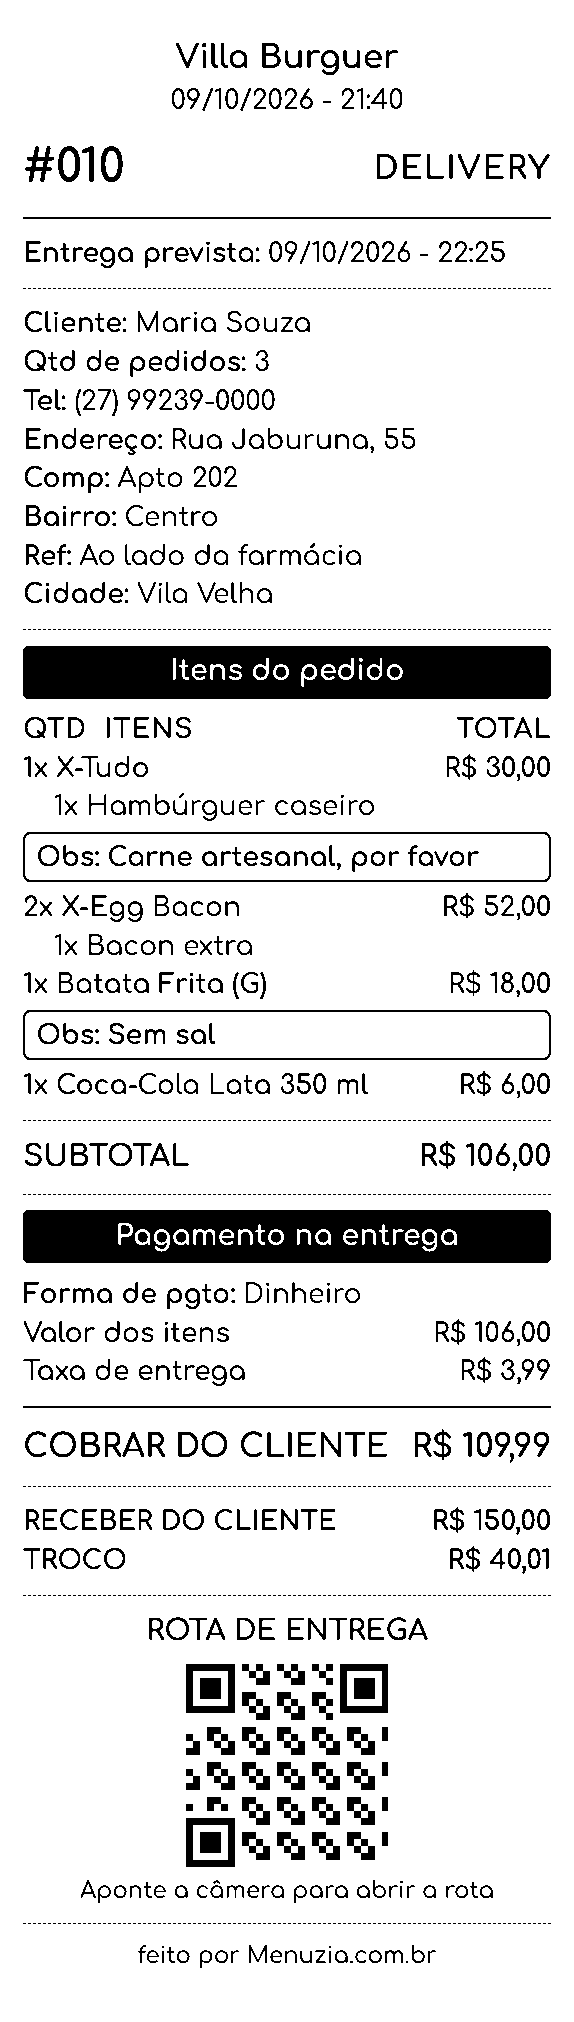
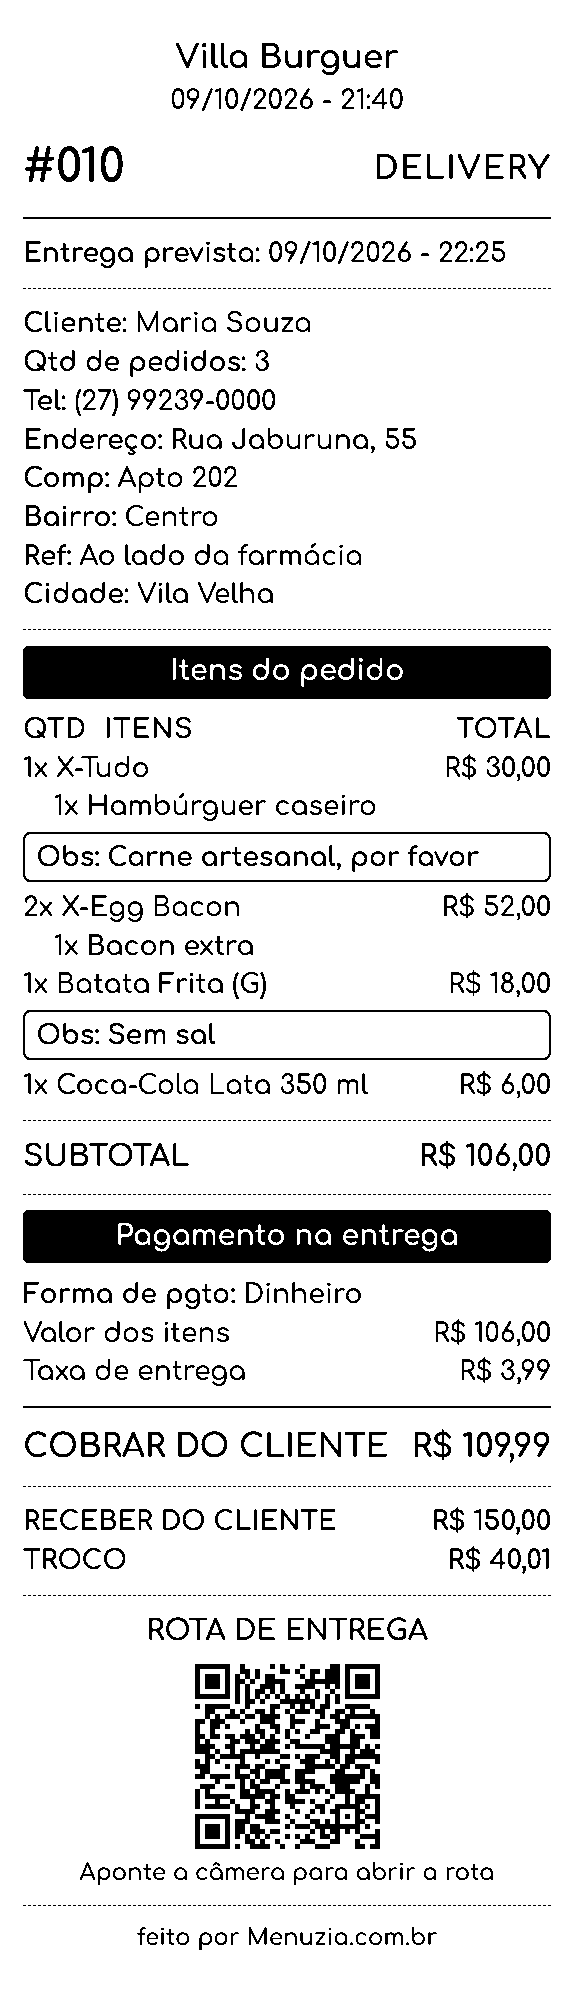
feat(assistente): Alfa 1 1.1.1 — texto mais forte (mín. 600, destaques 700) e amostras com QR reais
- alfa1.js: todo font-weight 500 → 600 (cliente, endereço, complementos, tabela da pré-conta);
  sub-linhas da pré-conta com o mesmo corpo de 14px da comanda.
- Amostras regeradas com QR REAIS (mesmo código do servidor): rota do pedido #277 e Instagram;
  decodificadas por jsQR (5/5).
- Feed da atualização: 1.1.1 (release printer-agent-v1.1.1). A Villa continua fora (trava por IP/computador).
- cozinha-beta: contagem de pedidos por telefone usava /D/ em vez de /\D/.

diff --git a/printer-agent/ferramentas/amostras-alfa1.js b/printer-agent/ferramentas/amostras-alfa1.js
@@ -15,7 +15,14 @@ function qrFalso(n = 29) {
   olho(0, 0); olho(n - 7, 0); olho(0, n - 7)
   return m.map((r) => r.join(''))
 }
-const QR = qrFalso()
+// 10/10: QR REAIS (mesmo código do servidor, lib/impressao/cozinha-beta.ts) quando houver .medidas/qr-reais.json:
+// rota do pedido #277 da Menuzia e Instagram da pré-conta. Sem o arquivo, o padrão fixo de antes.
+let REAIS = null
+try { REAIS = JSON.parse(fs.readFileSync(path.join(__dirname, '../../.medidas/qr-reais.json'), 'utf8')) } catch { /* sem arquivo */ }
+const QR = REAIS ? REAIS.rota.linhas : qrFalso()
+const URL_ROTA = REAIS ? REAIS.rota.url : 'https://app.menuzia.com.br/r/AAAA'
+const QR_INSTA = REAIS ? REAIS.insta.linhas : QR
+const URL_INSTA = REAIS ? REAIS.insta.url : 'https://instagram.com/villaburguer'
 const AGORA = '2026-10-10T00:40:00Z'
 const loja = { nome: 'Villa Burguer' }
 const itens = [
@@ -26,7 +33,7 @@ const itens = [
 ]
 const base = { numero: 10, criadoEm: AGORA, clienteNome: 'Maria Souza', clienteTelefone: '5527992390000', itens, subtotal: 106, formaPagamento: 'dinheiro', trocoPara: 150, pago: false, observacao: '' }
 const casos = {
-  'comanda-entrega': montarComandaAlfa1({ ...base, tipo: 'entrega', canal: 'delivery', taxaEntrega: 3.99, total: 109.99, agendadoPara: '2026-10-10T01:25:00Z', enderecoRua: 'Rua Jaburuna', enderecoNumero: '55', enderecoComplemento: 'Apto 202', enderecoBairro: 'Centro', enderecoReferencia: 'Ao lado da farmácia', enderecoCidade: 'Vila Velha/ES' }, { loja, extras: { qtdPedidosCliente: 3 }, qr: { linhas: QR, url: 'https://app.menuzia.com.br/r/AAAA' } }),
+  'comanda-entrega': montarComandaAlfa1({ ...base, tipo: 'entrega', canal: 'delivery', taxaEntrega: 3.99, total: 109.99, agendadoPara: '2026-10-10T01:25:00Z', enderecoRua: 'Rua Jaburuna', enderecoNumero: '55', enderecoComplemento: 'Apto 202', enderecoBairro: 'Centro', enderecoReferencia: 'Ao lado da farmácia', enderecoCidade: 'Vila Velha/ES' }, { loja, extras: { qtdPedidosCliente: 3 }, qr: { linhas: QR, url: URL_ROTA } }),
   'comanda-retirada': montarComandaAlfa1({ ...base, tipo: 'retirada', canal: 'delivery', taxaEntrega: 0, total: 106 }, { loja, extras: { qtdPedidosCliente: 3 } }),
   'comanda-balcao': montarComandaAlfa1({ ...base, tipo: 'retirada', canal: 'balcao', taxaEntrega: 0, total: 106, senha: 47 }, { loja, extras: { qtdPedidosCliente: 3, atendente: 'Carlos' } }),
   'comanda-entrega-longa': montarComandaAlfa1({
@@ -38,12 +45,12 @@ const casos = {
     ],
     subtotal: 149.9, observacao: 'Interfone quebrado: ligar quando chegar.',
     enderecoRua: 'Avenida Nossa Senhora da Penha, Condomínio Residencial Jardim das Orquídeas Torre Norte', enderecoNumero: '1500', enderecoComplemento: 'Bloco C, apartamento 1203, entrada pela portaria lateral', enderecoBairro: 'Santa Lúcia', enderecoReferencia: 'Em frente ao posto Shell, portão verde', enderecoCidade: 'Vitória/ES',
-  }, { loja: { nome: 'Pizzaria e Hamburgueria Sabor da Ilha Gourmet' }, extras: { qtdPedidosCliente: 27 }, qr: { linhas: QR, url: 'https://app.menuzia.com.br/r/BBBB' } }),
+  }, { loja: { nome: 'Pizzaria e Hamburgueria Sabor da Ilha Gourmet' }, extras: { qtdPedidosCliente: 27 }, qr: { linhas: QR, url: URL_ROTA } }),
   'pre-conta': montarPreContaAlfa1({
     loja_dados: { nome: 'Villa Burguer', cnpj: '12.345.678/0001-90' }, tipo: 'mesa', mesa: '04', comanda_numero: 123, impresso_em: AGORA,
     itens: itens.map((i) => ({ nome: i.nome, quantidade: i.quantidade, preco_unitario: i.precoUnitario, complementos: i.complementos })),
     subtotal: 106, taxa: 10.6, taxa_percentual: 10, desconto: 5, total: 111.6, pago: 50, restante: 61.6, pessoas: 3, atendente: 'Carlos',
-    qr: { linhas: QR, origem: 'instagram', url: 'https://instagram.com/villaburguer' },
+    qr: { linhas: QR_INSTA, origem: 'instagram', url: URL_INSTA },
   }),
 }
 

diff --git a/printer-agent/src/alfa1.js b/printer-agent/src/alfa1.js
@@ -220,18 +220,18 @@ html,body{background:#fff}
 .papel{background:#fff;color:#000;font-family:'Comfortaa',sans-serif;font-size:14px;font-weight:600;line-height:1.45;padding:18px 12px 26px;-webkit-font-smoothing:antialiased}
 .c{text-align:center}
 .loja{font-size:17px;font-weight:700}
-.reg{font-weight:500}
+.reg{font-weight:600}
 .tr{border-top:1px dashed #000;margin:8px 0}
 .sol{border-top:1.5px solid #000;margin:8px 0}
 .tit{text-align:center;font-weight:700;font-size:15px;margin:6px 0 4px}
-.kv b{font-weight:700}.kv span{font-weight:500}
+.kv b{font-weight:700}.kv span{font-weight:600}
 .lin{display:flex;justify-content:space-between;gap:8px;font-variant-numeric:tabular-nums}
 .lin>span:first-child{min-width:0}
 .cabi{display:flex;justify-content:space-between;font-weight:700;letter-spacing:.03em}
 .item{display:flex;justify-content:space-between;gap:8px;font-weight:600}
 .item>span:first-child{min-width:0;overflow-wrap:anywhere}
 .item>span:last-child{flex:none}
-.comp{padding-left:16px;font-weight:500;overflow-wrap:anywhere}
+.comp{padding-left:16px;font-weight:600;overflow-wrap:anywhere}
 .obs{background:#fff;color:#000;border:1.5px solid #000;font-size:14px;font-weight:700;padding:2px 6px;margin:3px 0;border-radius:4px;overflow-wrap:anywhere}
 .faixa{background:#000;color:#fff;text-align:center;font-weight:700;font-size:15px;padding:3px 6px;margin:6px 0 6px;border-radius:3px}
 .topo{display:flex;justify-content:space-between;align-items:center;gap:8px;margin-top:8px}
@@ -244,22 +244,22 @@ html,body{background:#fff}
 .grande{font-size:17px}
 .qr{display:block;margin:6px auto 4px}
 .pc-rod .qr{margin:0;flex:none}
-.pq{font-size:12px;font-weight:500}
+.pq{font-size:12px;font-weight:600}
 .aviso{text-align:center;font-weight:700;border:1.5px solid #000;padding:2px 4px;margin:6px 0}
 .kv{overflow-wrap:anywhere}
 .tot>span:last-child,.lin>span:last-child,.lin>b:last-child,.item>span:last-child,.total-g>span:last-child,.badge,.num{white-space:nowrap}
 .tot>span:first-child,.lin>b:first-child,.total-g>span:first-child{min-width:0}
 .pc-tit{text-align:center;font-weight:700;font-size:16px;margin-bottom:10px}
-.pc-loja{font-weight:500;line-height:1.4;overflow-wrap:anywhere}
+.pc-loja{font-weight:600;line-height:1.4;overflow-wrap:anywhere}
 .pc-loja b{font-weight:700}
 .tab{width:100%;border-collapse:collapse;font-variant-numeric:tabular-nums}
 .tab th{font-weight:700;text-align:left;border-bottom:1px solid #000;padding:0 0 2px}
-.tab td{font-weight:500;padding:1px 0;vertical-align:top;overflow-wrap:anywhere}
+.tab td{font-weight:600;padding:1px 0;vertical-align:top;overflow-wrap:anywhere}
 .tab .q{width:30px;text-align:right;padding-right:8px}
 .tab .v{width:76px;text-align:right}
-.tab .sub td{font-size:13px}
+.tab .sub td{font-size:14px}
 .total-g{display:flex;justify-content:space-between;align-items:baseline;gap:8px;font-weight:700;font-size:22px;border-top:1px solid #000;border-bottom:1px solid #000;padding:3px 0;margin:6px 0;font-variant-numeric:tabular-nums}
-.res td{font-weight:500}
+.res td{font-weight:600}
 .res .forte td{font-weight:700}
 `
 

diff --git a/lib/impressao/atualizacao-assistente.ts b/lib/impressao/atualizacao-assistente.ts
@@ -10,11 +10,11 @@
  */
 export const ATUALIZACAO_ASSISTENTE = {
   ligada: true,
-  versao: '1.1.0',
-  url: 'https://github.com/felipe1santos/cardapio/releases/download/printer-agent-v1.1.0/AssistenteMenuziaAlfa1-Setup-1.1.0.exe',
[1 lines of base64/hex data omitted]
-  tamanho: 82550871,
-  data: '2026-10-10T02:21:17.662Z',
+  versao: '1.1.1',
+  url: 'https://github.com/felipe1santos/cardapio/releases/download/printer-agent-v1.1.1/AssistenteMenuziaAlfa1-Setup-1.1.1.exe',
[1 lines of base64/hex data omitted]
+  tamanho: 82550856,
+  data: '2026-10-10T20:20:21.567Z',
 }
 
 /** O `latest.yml` no formato que o electron-updater lê (provedor genérico). */
